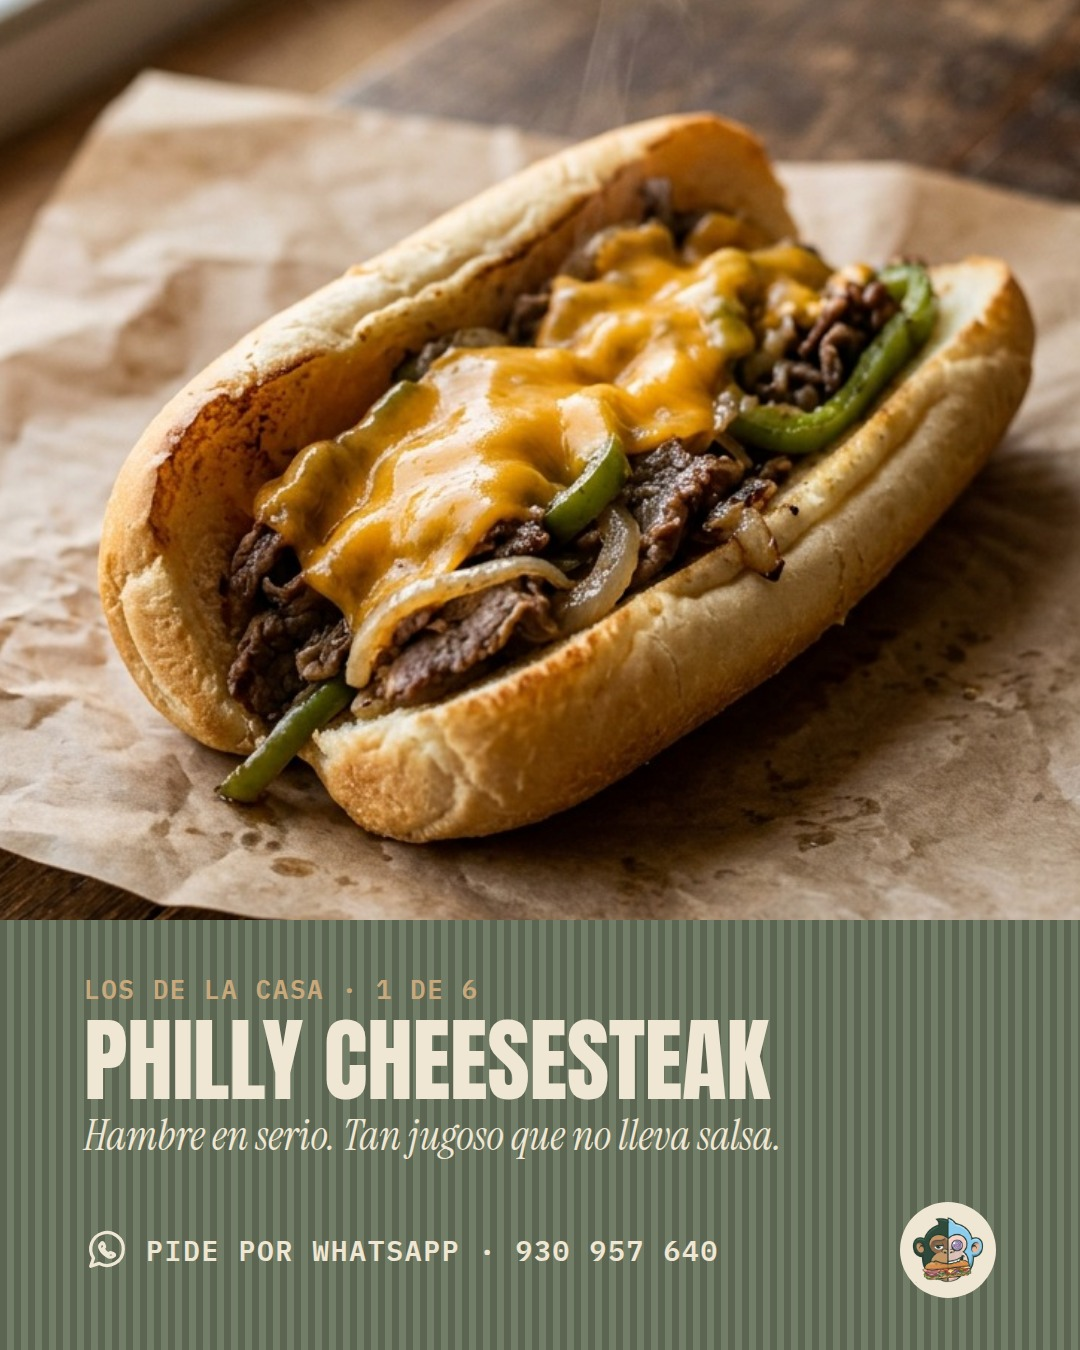
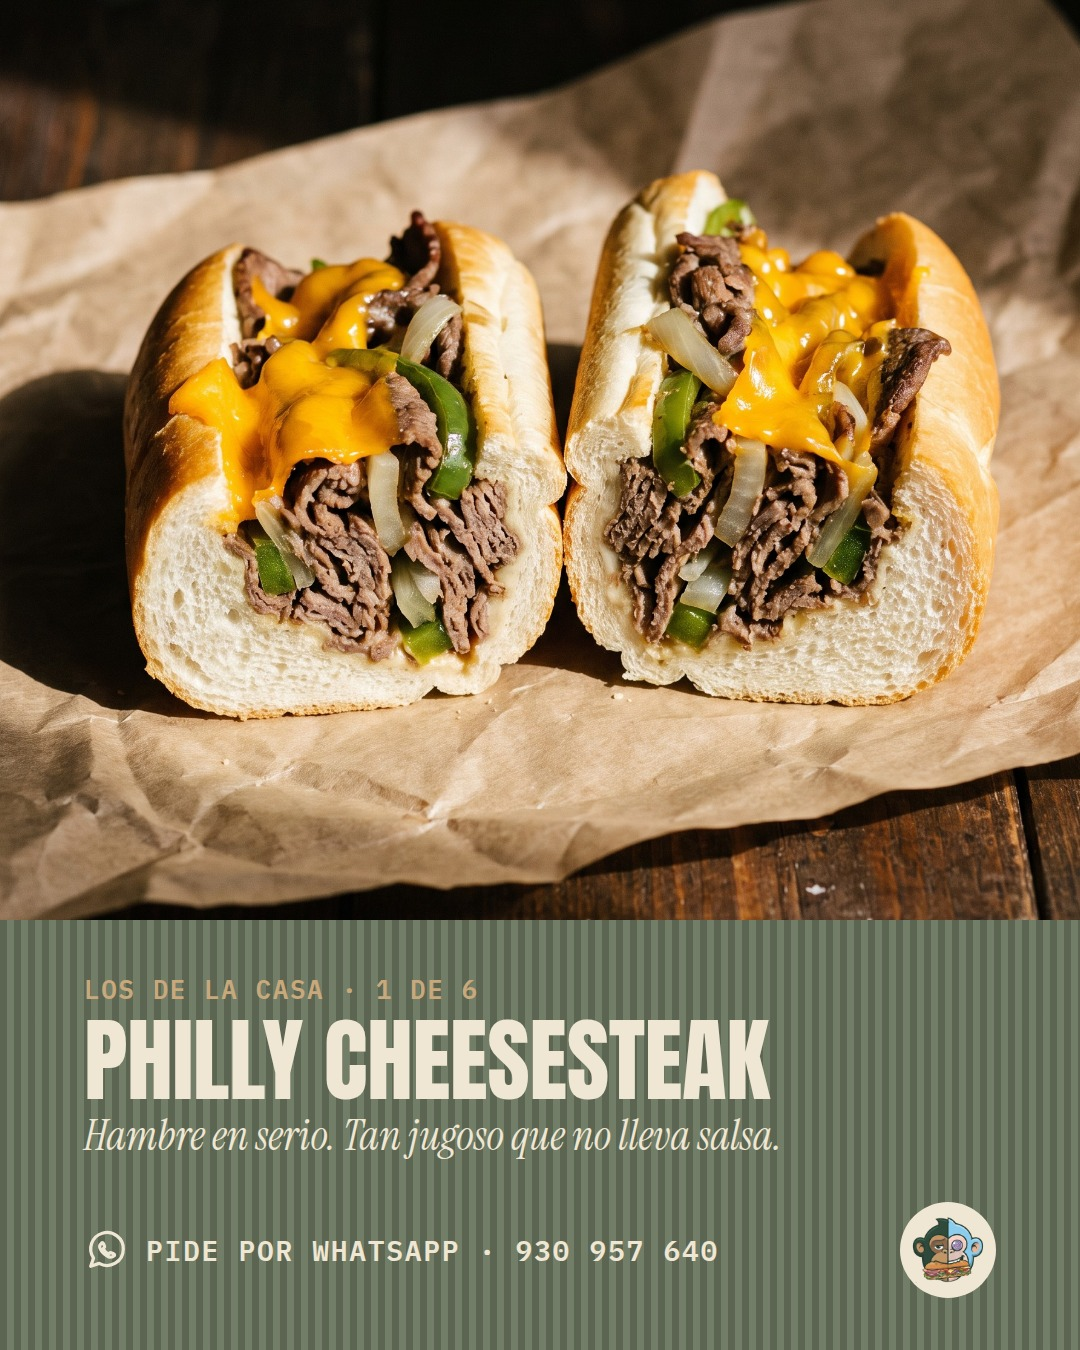
Instagram: el Philly en 30 cm partido en dos (se ve grande y fiel al pan real)
Dueño: «No se ven grandes los sándwiches... el de 15 siempre es la mitad de uno de 30». Eligió la toma sin la nota.
Los otros 5 se generan cuando Figma renueve los créditos.

Claude-Session: https://claude.ai/code/session_01NCVgixMFGDjTdiWThGTz7g

diff --git a/docs/marketing/anuncios/README.md b/docs/marketing/anuncios/README.md
@@ -73,3 +73,17 @@ nuevo). La usa el lanzamiento de Instagram (la carta y la lámina del Turkey) en
 `fotos/foto-turkey-v4.jpg` (Figma, `gemini-3.1-flash-image`): el mismo prompt de la v3 con «CLOSE-UP:
 a single 15 cm submarine sandwich fills half to two thirds of the frame, three-quarter angle», sin
 laptop. Es la que usan las finales del anuncio (`piezas/2026-10-anuncio-turkey/final/`).
+
+## Los Signatures en 30 cm, partidos en dos (2026-10-30)
+
+Dueño: «No se ven grandes los sándwiches, dan la impresión de ser un pan pequeño, y recuerda que el de 15 siempre es la
+mitad de uno de 30». Las fotos anteriores mostraban un pan corto cerrado por las dos puntas, y ese pan no existe en la
+carta: el de 15 cm es la mitad de uno de 30, con una punta redonda y un corte.
+- **La toma nueva:** el de 30 cm partido en sus dos mitades, con las caras del corte de frente y el relleno a la vista,
+  sobre kraft y madera oscura.
+- **Lo que se probó:** también una versión con la nota «En la foto, el de 30 cm · el de 15 es la mitad». El dueño eligió
+  «Así, pero sin la nota».
+
+| archivo | herramienta | lo que pide el prompt |
+|---|---|---|
+| `fotos/foto-philly-30.jpg` | Gamma (`generate_image`, tipo foto, 4:5), porque Figma no tenía créditos | 30 cm Philly cheesesteak on a soft white sub roll, cut into two 15 cm halves, cut faces to camera: thinly sliced sautéed beef, sautéed white onion, green bell pepper, melted cheddar; no sauce; each half one rounded end and one cut end; generous but realistic; kraft paper, dark wood; no drinks, text or people |
